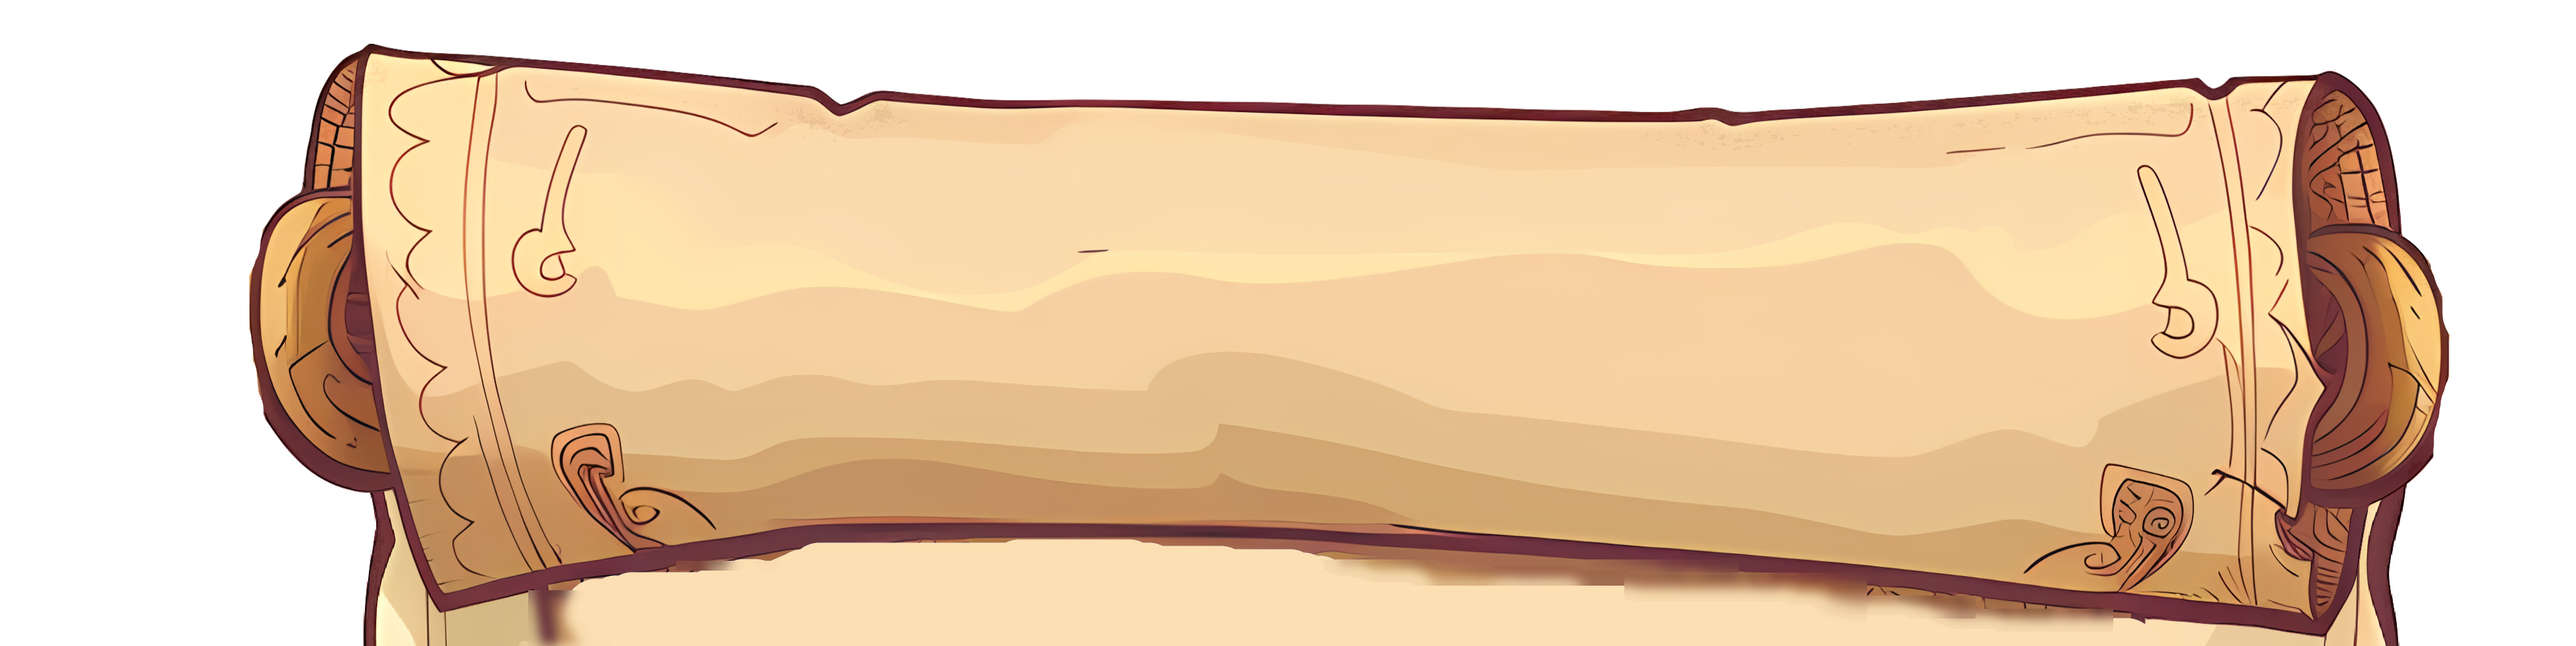
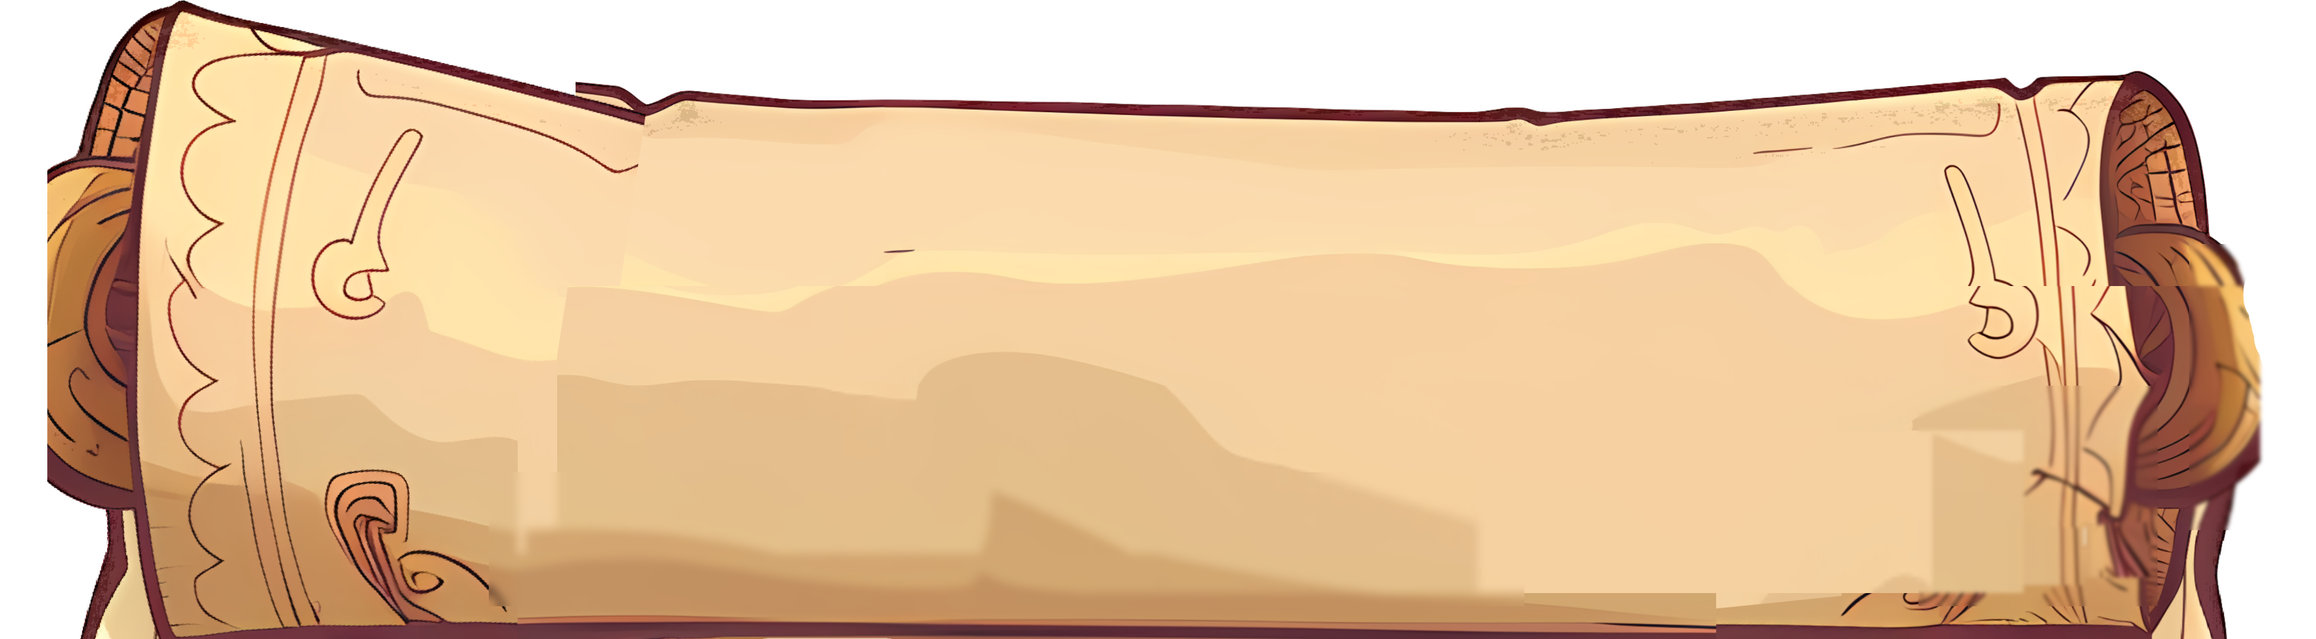
Update header aspect ratio and ensure all sections use same width

diff --git a/writing.html b/writing.html
@@ -42,8 +42,8 @@
         
         .parchment-header {
             background-image: url('writing/header.png');
-            background-size: contain;
-            padding-bottom: 25.1%; /* Maintain aspect ratio: 985/3925 = 0.251 */
+            background-size: 100% auto;
+            padding-bottom: 27.6%; /* Maintain aspect ratio: 974/3529 = 0.276 */
         }
         
         .parchment-middle {
@@ -56,7 +56,7 @@
         
         .parchment-footer {
             background-image: url('writing/footer.png');
-            background-size: contain;
+            background-size: 100% auto;
             padding-bottom: 22.8%; /* Maintain aspect ratio: 915/4020 = 0.228 */
         }
         
